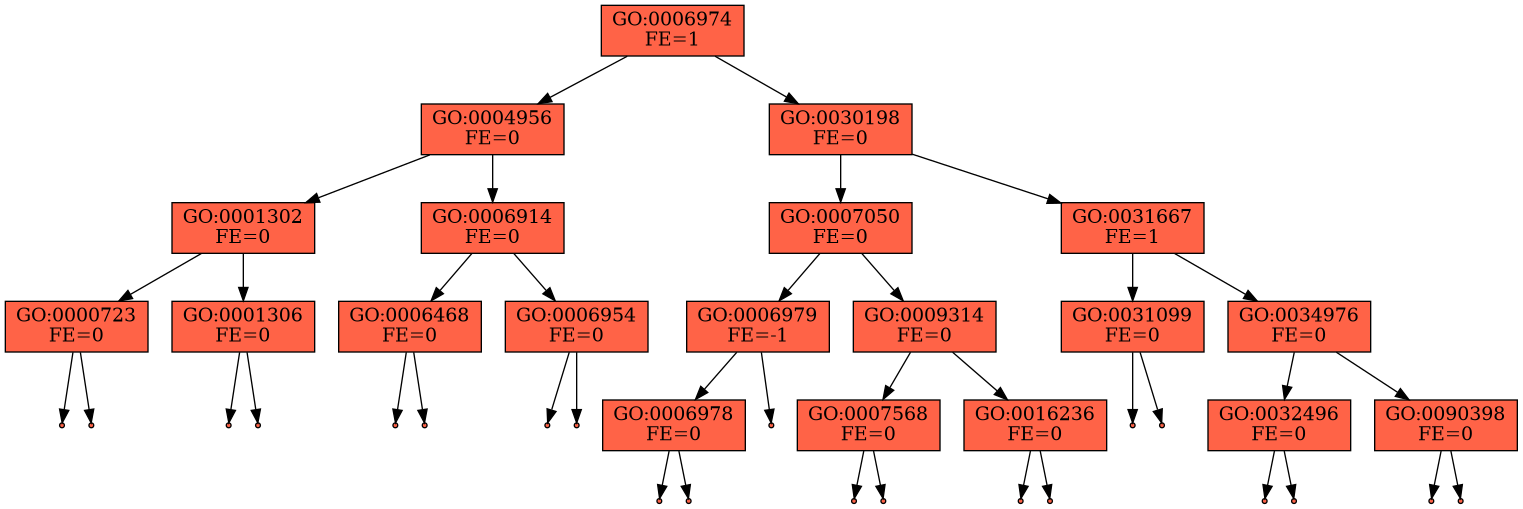
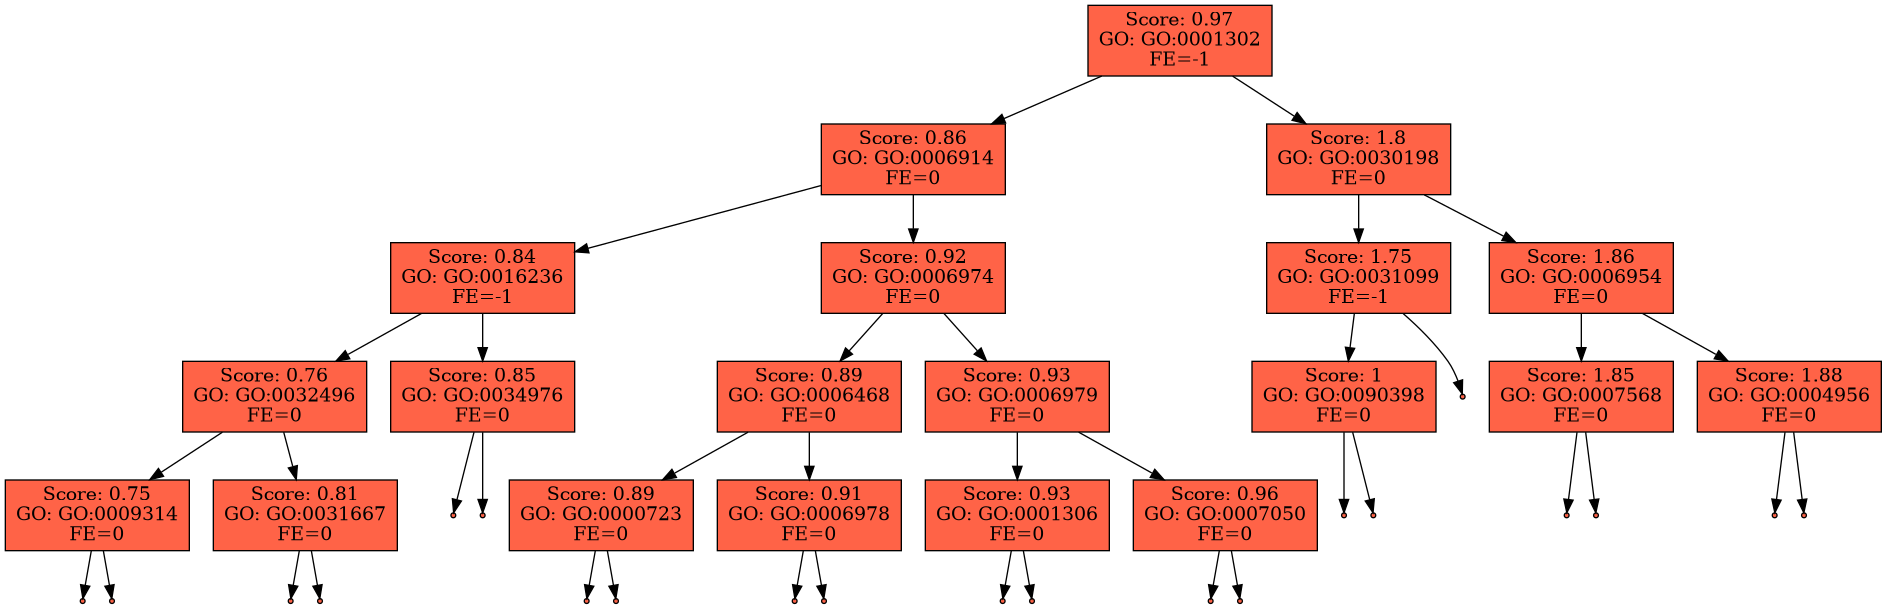
Modifique el codigo para que me los ordenara en el png por el score

diff --git a/Lab5/FINAL/Parra_Agustin_Ejercicio1_Lab5.cpp b/Lab5/FINAL/Parra_Agustin_Ejercicio1_Lab5.cpp
@@ -86,30 +86,37 @@ NODO* insertar(NODO* &nodo, string funtion, string go, float score){
         nodo = creaNodo(funtion, go, score);
         return nodo;
     }
-    if(go < nodo -> go){
+    if(score < nodo -> score){
         nodo -> left = insertar(nodo -> left, funtion, go, score);
 
-    }else if(go > nodo -> go){
+    }else if(score > nodo -> score){
         nodo -> right = insertar(nodo -> right, funtion, go, score);
-    }else{
-        cout << "El nodo con go " << go << " ya existe en el arbol." << endl;
+    }else{ // Si los scores son iguales, usamos el GO para decidir la posicion
+        if(go < nodo -> go){
+            nodo -> left = insertar(nodo -> left, funtion, go, score);
+        }else if(go > nodo -> go){
+            nodo -> right = insertar(nodo -> right, funtion, go, score);
+        }else{
+            cout << "El nodo con GO " << go << " ya existe. No se inserto duplicado." << endl;
+        }
+
     }
+
 
     return Balancear(nodo);
 }
-
 NODO* Buscar(NODO* nodo, string go){
     if(nodo == nullptr){
         return nullptr;
     }
-    if(nodo -> go == go){
+    if(nodo->go == go){
         return nodo;
     }
-    if(go < nodo -> go){
-        return Buscar(nodo -> left, go);
-    }else{
-        return Buscar(nodo -> right, go);
+    NODO* encontrado = Buscar(nodo->left, go);
+    if(encontrado != nullptr){
+        return encontrado;
     }
+    return Buscar(nodo->right, go);
 }
 
 // Para un mayor orden imprimo el arbol en posorden
@@ -119,35 +126,36 @@ void imprimirPosOrden(NODO* nodo){
     imprimirPosOrden(nodo -> right);
     cout << "Funcion: " << nodo -> funtion << ", GO: " << nodo -> go << ", Score: " << nodo -> score << endl;
 }
-
 void Dot(NODO* nodo, ofstream &archivo) {
     if (nodo == nullptr)
         return;
 
-   
-    archivo << "\"" << nodo->go << "\" [label=\""
-            << nodo->go << "\\nFE=" << nodo->fe
+    
+    archivo << "\"" << nodo << "\" [label=\""
+            << "Score: " << nodo->score 
+            << "\nGO: " << nodo->go
+            << "\nFE=" << nodo->fe
             << "\", shape=box];\n";
 
-    //hijo izquierdo
+    // Hijo izquierdo
     if (nodo->left != nullptr) {
-        archivo << "\"" << nodo->go << "\" -> \"" << nodo->left->go << "\";\n";
+        archivo << "\"" << nodo << "\" -> \"" << nodo->left << "\";\n";
         Dot(nodo->left, archivo);
     } else {
-        // Si no tiene hijo izquierdo, agrega un punto 
-        archivo << "\"" << nodo->go << "i\" [shape=point];\n";
-        archivo << "\"" << nodo->go << "\" -> \"" << nodo->go << "i\";\n";
+        archivo << "\"" << nodo << "i\" [shape=point];\n";
+        archivo << "\"" << nodo << "\" -> \"" << nodo << "i\";\n";
     }
 
-    // hijo derecho
+    // Hijo derecho
     if (nodo->right != nullptr) {
-        archivo << "\"" << nodo->go << "\" -> \"" << nodo->right->go << "\";\n";
+        archivo << "\"" << nodo << "\" -> \"" << nodo->right << "\";\n";
         Dot(nodo->right, archivo);
     } else {
-        archivo << "\"" << nodo->go << "d\" [shape=point];\n";
-        archivo << "\"" << nodo->go << "\" -> \"" << nodo->go << "d\";\n";
+        archivo << "\"" << nodo << "d\" [shape=point];\n";
+        archivo << "\"" << nodo << "\" -> \"" << nodo << "d\";\n";
     }
 }
+
 
 void leerCSV(NODO* &raiz, const string& nombreArchivo) {
     ifstream archivo(nombreArchivo);
